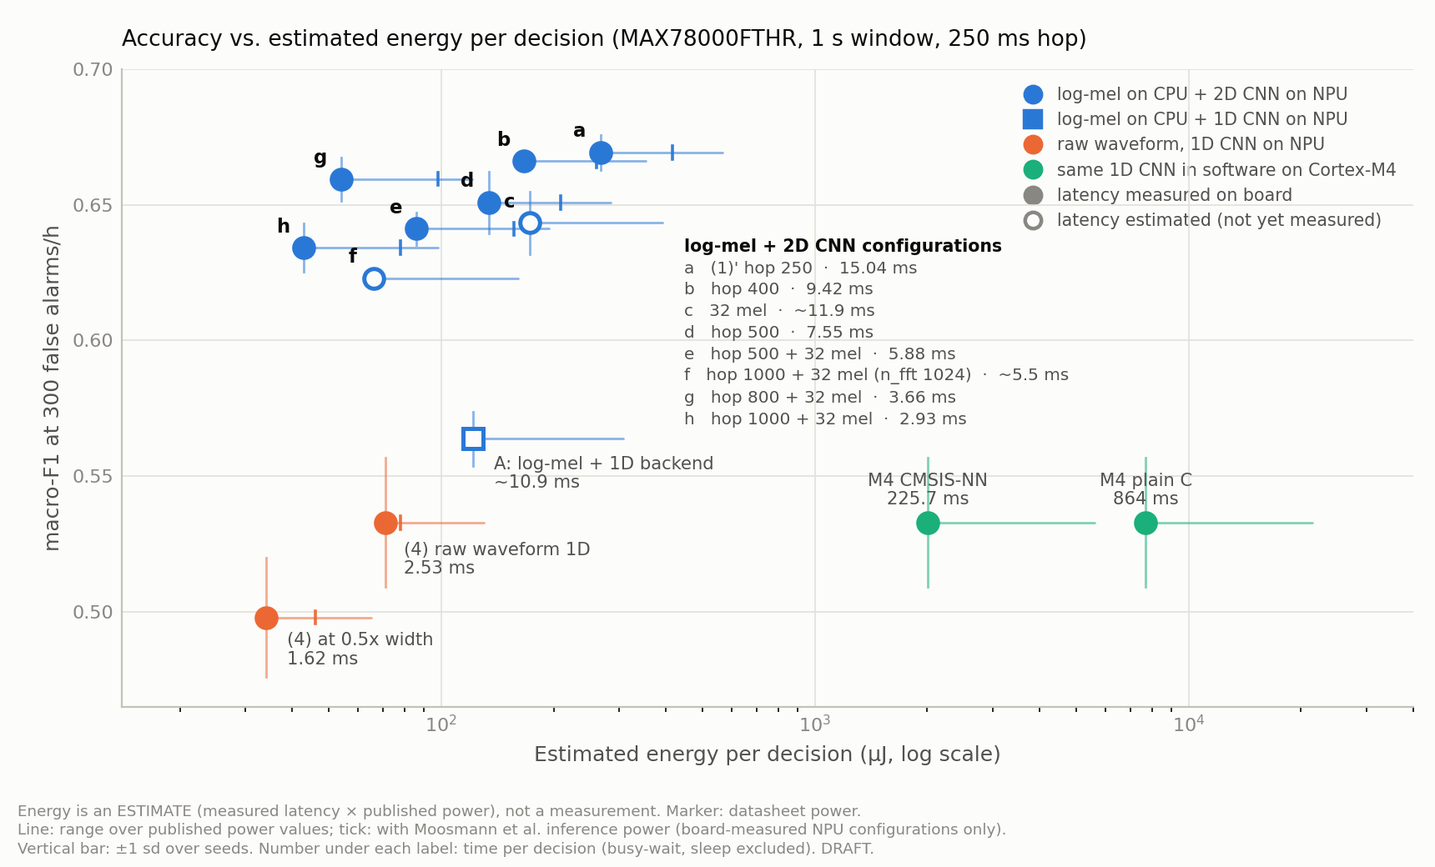
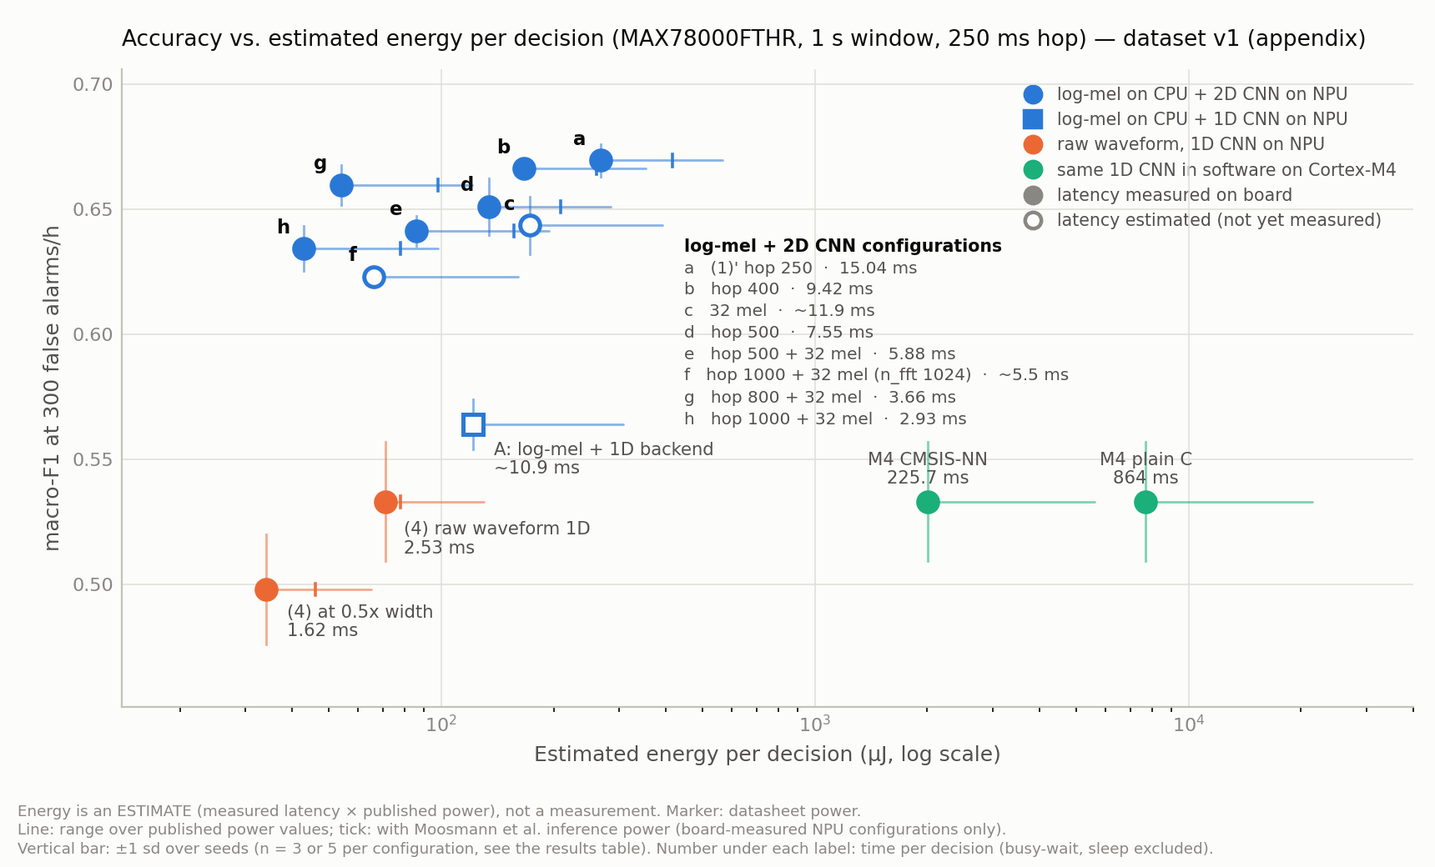
논문 본 표·본 그림을 v2.1 5개 구성으로 교체, v1 은 부록
- STATUS: 논문 표 v2.1 (시드 수·같은 시드 차이 열 명시), v1 표는 부록으로
- curve-points-v21.csv + curve-v21.png (본 그림), curve-draft.png 는 v1 부록 (--v1)
- 간격 400 대 ①′: v1 동등(±0.02), v2.1 −0.006 [−0.021, +0.008] 동등 판정 미통과
- 가·다 대 ①′ 는 정확도와 에너지의 교환으로, ④ 대비는 기존 표현 유지
- dataset-v2.1-design.md 8.7 표 재생성 (시드 기준 머리), 9절 한계 추가
- energy-estimate 4.6·4.7·4.7.1 을 v2.1 정확도로, external-eval 에 v1 부록 안내

diff --git a/tools/plot_curve.py b/tools/plot_curve.py
@@ -12,9 +12,13 @@
 색은 3색으로 제한했다 (산점도는 모든 쌍이 인접하므로 3색까지만 색각 이상
 검증을 통과한다). 색 = 추론이 도는 곳·입력 표현, 모양 = 뒷단 구조.
 
-사용 (WSL2):  ~/ai8x-training/venv/bin/python tools/plot_curve.py
+사용 (WSL2):
+  본 그림 (v2.1):  ~/ai8x-training/venv/bin/python tools/plot_curve.py
+  v1 부록 그림:    ~/ai8x-training/venv/bin/python tools/plot_curve.py --v1
+한 그림에 두 판(v1 / v2.1)의 수치를 섞지 않는다 — 점 CSV 가 판마다 따로다.
 """
 
+import argparse
 import csv
 import os
 
@@ -23,8 +27,11 @@ matplotlib.use("Agg")
 import matplotlib.pyplot as plt                              # noqa: E402
 
 REPO = os.path.dirname(os.path.dirname(os.path.abspath(__file__)))
-SRC = os.path.join(REPO, "docs", "results", "curve-points.csv")
-OUT = os.path.join(REPO, "docs", "figures", "curve-draft.png")
+# 판별 점 CSV / 출력 / 그림 제목 꼬리표
+EDITIONS = {
+    "v21": ("curve-points-v21.csv", "curve-v21.png", "dataset v2.1 (main)"),
+    "v1": ("curve-points.csv", "curve-draft.png", "dataset v1 (appendix)"),
+}
 
 SURFACE, INK, INK2, MUTED, GRID, AXIS = ("#fcfcfb", "#0b0b0b", "#52514e", "#898781",
                                          "#e1e0d9", "#c3c2b7")
@@ -47,7 +54,14 @@ HALIGN = {"h400": "right", "h500": "center", "h500m32": "center", "u800": "right
 
 
 def main():
-    rows = list(csv.DictReader(open(SRC, encoding="utf-8")))
+    ap = argparse.ArgumentParser()
+    ap.add_argument("--v1", action="store_true", help="v1 부록 그림 (기본은 v2.1 본 그림)")
+    args = ap.parse_args()
+    src_name, out_name, edition = EDITIONS["v1" if args.v1 else "v21"]
+    src = os.path.join(REPO, "docs", "results", src_name)
+    out = os.path.join(REPO, "docs", "figures", out_name)
+    rows = list(csv.DictReader(open(src, encoding="utf-8")))
+    keyed = [k for k in KEYED if k in {r["id"] for r in rows}]   # 이 판에 있는 것만 a, b, …
     fig, ax = plt.subplots(figsize=(8.6, 5.2), dpi=200)
     fig.patch.set_facecolor(SURFACE)
     ax.set_facecolor(SURFACE)
@@ -73,9 +87,9 @@ def main():
                 mfc=color if measured else SURFACE, ls="none")
         t = float(r["time_ms"])
         tms = f"{'' if measured else '~'}{t:g} ms"
-        if r["id"] in KEYED:
+        if r["id"] in keyed:
             # 로그 멜 2D 계열은 점이 몰려 있다 — 점에는 글자만, 설명은 옆의 표로
-            letter = "abcdefgh"[KEYED.index(r["id"])]
+            letter = "abcdefgh"[keyed.index(r["id"])]
             ax.annotate(letter, (x, y), xytext=(-9, 9), textcoords="offset points",
                         fontsize=8.2, color=INK, ha="center", va="center",
                         fontweight="bold")
@@ -93,7 +107,9 @@ def main():
 
     ax.set_xscale("log")
     ax.set_xlim(14, 40000)
-    ax.set_ylim(0.465, 0.70)
+    lo = min(float(r["f1"]) - float(r["f1_sd"]) for r in rows)
+    hi = max(float(r["f1"]) + float(r["f1_sd"]) for r in rows)
+    ax.set_ylim(lo - 0.025, hi + 0.03)
     ax.set_xlabel("Estimated energy per decision (µJ, log scale)", color=INK2, fontsize=9)
     ax.set_ylabel("macro-F1 at 300 false alarms/h", color=INK2, fontsize=9)
     ax.grid(True, which="major", color=GRID, lw=0.6)
@@ -104,30 +120,32 @@ def main():
     for s in ("left", "bottom"):
         ax.spines[s].set_color(AXIS)
 
+    present = {r["group"] for r in rows}            # 이 판에 있는 계열만 범례에
     handles = [plt.Line2D([], [], marker=m, ls="none", ms=7, mec=c, mfc=c, mew=1.6, label=n)
-               for c, m, n in GROUPS.values()]
+               for g, (c, m, n) in GROUPS.items() if g in present]
     handles += [plt.Line2D([], [], marker="o", ls="none", ms=7, mec=MUTED, mfc=MUTED, mew=1.6,
-                           label="latency measured on board"),
-                plt.Line2D([], [], marker="o", ls="none", ms=7, mec=MUTED, mfc=SURFACE, mew=1.6,
-                           label="latency estimated (not yet measured)")]
+                           label="latency measured on board")]
+    if any(r["board"] != "1" for r in rows):
+        handles += [plt.Line2D([], [], marker="o", ls="none", ms=7, mec=MUTED, mfc=SURFACE, mew=1.6,
+                               label="latency estimated (not yet measured)")]
     leg = ax.legend(handles=handles, loc="upper right", fontsize=7.4, frameon=False,
                     labelcolor=INK2, handletextpad=0.4, borderaxespad=0.6)
     leg.set_zorder(1)
 
-    ax.set_title("Accuracy vs. estimated energy per decision (MAX78000FTHR, 1 s window, 250 ms hop)",
+    ax.set_title(f"Accuracy vs. estimated energy per decision (MAX78000FTHR, 1 s window, 250 ms hop) — {edition}",
                  fontsize=9.5, color=INK, loc="left", pad=10)
     fig.text(0.012, 0.012,
              "Energy is an ESTIMATE (measured latency × published power), not a measurement. "
              "Marker: datasheet power.\n"
              "Line: range over published power values; tick: with Moosmann et al. "
              "inference power (board-measured NPU configurations only).\n"
-             "Vertical bar: ±1 sd over seeds. Number under each label: time per decision "
-             "(busy-wait, sleep excluded). DRAFT.",
+             "Vertical bar: ±1 sd over seeds (n = 3 or 5 per configuration, see the results table). "
+             "Number under each label: time per decision (busy-wait, sleep excluded).",
              fontsize=6.6, color=MUTED, ha="left", va="bottom", linespacing=1.3)
     fig.subplots_adjust(left=0.085, right=0.985, top=0.92, bottom=0.185)
-    os.makedirs(os.path.dirname(OUT), exist_ok=True)
-    fig.savefig(OUT, facecolor=SURFACE)
-    print(f"저장: {OUT}")
+    os.makedirs(os.path.dirname(out), exist_ok=True)
+    fig.savefig(out, facecolor=SURFACE)
+    print(f"저장: {out}")
 
 
 if __name__ == "__main__":

diff --git a/tools/v21_report.py b/tools/v21_report.py
@@ -27,14 +27,15 @@ def seeds(name, ver, key):
 
 
 print("### 8.1 채택 판정 (2절 규칙 그대로) 과 본 표 선택 (7절 일탈 규칙)\n")
-print("| 구성 | 조건 1 외부 F1 (v2.1 − v1) | 조건 2 시험셋 F1 (v2.1 − v1) | 조건 3 외부 오경보 맞춤 (v2.1 − v1) | 조건 4 배경+배경 발화 v2.1 | 넷 다 | 조건 2·4 |")
+print("차이(v2.1 − v1)는 **같은 시드끼리** (④ 시드 1~5, 나머지 시드 1~3) Welch 95% CI. 조건 4 도 같은 시드 평균." + "\n")
+print("| 구성 (비교 시드) | 조건 1 외부 F1 (v2.1 − v1) | 조건 2 시험셋 F1 (v2.1 − v1) | 조건 3 외부 오경보 맞춤 (v2.1 − v1) | 조건 4 배경+배경 발화 v2.1 | 넷 다 | 조건 2·4 |")
 print("|---|---|---|---|---|---|---|")
 n24 = 0
 for n, p in P.items():
     c = p["cond"]
     ok24 = c["2_test"] and c["4_bgbg"]
     n24 += ok24
-    print(f"| {n} | {ci(p['delta_v1']['ext_f1'])} {'○' if c['1_ext'] else '×'} | "
+    print(f"| {n} (1~{p['n_old']}) | {ci(p['delta_v1']['ext_f1'])} {'○' if c['1_ext'] else '×'} | "
           f"{ci(p['delta_v1']['test_f1'])} {'○' if c['2_test'] else '×'} | "
           f"{ci(p['delta_v1']['ext_matched'])} {'○' if c['3_matched'] else '×'} | "
           f"{100*np.mean(p['seeds']['v21']['bgbg_fire'][:p['n_old']]):.2f}% {'○' if c['4_bgbg'] else '×'} | "
@@ -42,12 +43,17 @@ for n, p in P.items():
 print(f"\n네 조건 충족 {R['n_pass']}/{R['n_total']} → 채택 판정 **{'채택' if R['adopt'] else '기각'}**. "
       f"조건 2·4 충족 {n24}/{R['n_total']} → 본 표 **{'v2.1' if n24 >= 3 else 'v1'}** (7절).")
 
-print("\n### 8.2 세 판 나란히 — 시드 평균 (v2.1 은 전 시드)\n")
-print("| 구성 | 시험셋 F1 v1 / v2 / v2.1 | 외부 F1 (시험셋 문턱값) | 외부 F1 (외부 오경보 맞춤) | 외부 오경보/h | 배경+배경 발화 % |")
-print("|---|---|---|---|---|---|")
+print("\n### 8.2 세 판 나란히 — 시드 평균\n")
+print("v1·v2 는 ④ 시드 1~5, 나머지 시드 1~3. v2.1 은 **전 시드**(④·간격 400·①′ 5, 가·다 3) 평균이고, "
+      "8.1 의 차이는 v2.1 중 **v1 과 같은 시드** 만으로 계산했다 — 그래서 전 시드 평균의 차와 8.1 의 차이가 다를 수 있다 "
+      "(예: ①′ 전 시드 0.7148, 시드 1~3 0.7079, 차이 +0.0384 = 0.7079 − 0.6694). 외부 열도 같은 규칙." + "\n")
+print("| 구성 (v1·v2 시드 수 / v2.1 시드 수) | 시험셋 F1 v1 / v2 / v2.1 (전 시드) | v2.1 시험셋 F1 ±sd (전 시드) | v2.1 시험셋 F1 v1 과 같은 시드 | 외부 F1 (시험셋 문턱값) v1 / v2 / v2.1 | 외부 F1 (외부 오경보 맞춤) v1 / v2 / v2.1 | 외부 오경보/h v1 / v2 / v2.1 | 배경+배경 발화 % v1 / v2 / v2.1 |")
+print("|---|---|---|---|---|---|---|---|")
 for n, p in P.items():
     m = p["mean"]
-    print(f"| {n} | " + " / ".join(f"{m[v]['test_f1']:.4f}" for v in VERS) + " | "
+    a = np.asarray(p["seeds"]["v21"]["test_f1"]); a3 = a[:p["n_old"]]
+    print(f"| {n} ({p['n_old']} / {len(a)}) | " + " / ".join(f"{m[v]['test_f1']:.4f}" for v in VERS) + " | "
+          + f"{a.mean():.4f} ± {a.std(ddof=1):.4f} (n={len(a)}) | {a3.mean():.4f} (n={len(a3)}) | "
           + " / ".join(f"{m[v]['ext_f1']:.4f}" for v in VERS) + " | "
           + " / ".join(f"{m[v]['ext_matched']:.4f}" for v in VERS) + " | "
           + " / ".join(f"{m[v]['ext_fa']:.0f}" for v in VERS) + " | "
@@ -68,7 +74,7 @@ for i, n in enumerate(names):
           + " | ".join(str(rk[(v, 'ext_f1')][i]) for v in VERS) + " |")
 
 print("\n### 8.4 재판정 항목 — 세 판 (시험셋 F1 @300/h, Welch 95% CI)\n")
-print("v1·v2 는 시드 1~3(④ 는 1~5), v2.1 은 전 시드(④·간격 400·①′ 5, 가·다 3).\n")
+print("각 판 안의 두 구성을 비교한다 (판 사이 비교가 아니다). v1·v2 는 시드 1~3(④ 는 1~5), v2.1 은 전 시드(④·간격 400·①′ 5, 가·다 3). 동등 기준 ±0.02 는 사전 등록 그대로다." + "\n")
 print("| 비교 | v1 | v2 | v2.1 | v2.1 판정 |")
 print("|---|---|---|---|---|")
 for a, b, kind in (("간격 400", "①′", "eq"), ("가 u1000", "①′", ""), ("다 u800", "①′", ""),
@@ -80,7 +86,7 @@ for a, b, kind in (("간격 400", "①′", "eq"), ("가 u1000", "①′", ""), 
     d = welch(seeds(b, "v21", "test_f1"), seeds(a, "v21", "test_f1"))
     if kind == "eq":
         verdict = "**동등** (±0.02 안)" if d[1] >= -0.02 and d[2] <= 0.02 else (
-            "못 가른다" if d[1] < 0 < d[2] else ("유의하게 높다" if d[1] > 0 else "유의하게 낮다"))
+            "동등 판정 미통과 (CI 가 0 을 포함하나 ±0.02 를 벗어난다)" if d[1] < 0 < d[2] else ("유의하게 높다" if d[1] > 0 else "유의하게 낮다"))
     else:
         verdict = "못 가른다" if d[1] < 0 < d[2] else ("유의하게 높다" if d[1] > 0 else "유의하게 낮다")
     print(f"| {a} − {b} | " + " | ".join(cells) + f" | {verdict} |")
@@ -89,6 +95,7 @@ for key, title in (("test_recall", "시험셋 recall % v1 / v2 / v2.1"),
                    ("ext_recall", "외부 recall % (시험셋 문턱값) v1 / v2 / v2.1"),
                    ("mix_mix-gen-10", "혼합 시험셋 +10 dB recall % v1 / v2 / v2.1")):
     print(f"\n### {title}\n")
+    print("시드 평균. v1·v2 는 ④ 1~5·나머지 1~3, v2.1 은 전 시드 (④·간격 400·①′ 5, 가·다 3)." + "\n")
     print("| 구성 | " + " | ".join(EV) + " |\n|---|" + "---|" * 4)
     for n, p in P.items():
         c = p["class"]

diff --git a/docs/STATUS.md b/docs/STATUS.md
@@ -14,7 +14,74 @@
 차이**다. ① ≫ ④ (+0.138) 자체는 유지되지만 **원인은 미확정**이 됐다.
 1.2절·1.4절 일부·U-7 은 인용하지 말 것. `docs/results/errata-mel-scheme-eval.md`.
 
-## ★ 논문 표 v1 (2026-10-02 고정) — 이후 변경은 아래 "이력" 에만 적는다
+## ★ 논문 표 v2.1 (2026-10-07 고정) — 본 표. 이후 변경은 아래 "이력" 에만 적는다
+
+데이터셋 **v2.1** (v1 + 배경 혼합 증강, 배경 창도 혼합; `docs/results/dataset-v2.1-design.md`).
+본 표 선택은 그 문서 7절의 사후 규칙(조건 2·4 를 5개 중 3개 이상 → 5/5 충족)에
+따른 것이고, **채택 판정 자체는 기각(0/5) — 외부 세트 향상은 확인하지 못했다.**
+구성은 v2.1 로 재학습한 5개만. v1 에만 있는 구성(간격 500, 간격 500+멜 32, 멜 32,
+후보 나, ④ 0.5×, 구성 A)은 아래 **부록 표 v1** 에만 있다 — 한 표에 두 판을 섞지
+않는다.
+
+조건: MAX78000FTHR, POR 직후, 1000회 **최악값**, 코어 100 MHz (IPO), CNN 50 MHz
+(PCLK÷1), **바쁜 대기**, 슬립·유휴·가중치 적재 미포함. 지연 카운터는 SysTick
+(M4 열은 TMR0, 1 µs). 정확도는 PC 평가 (고정 오경보 300회/h, macro-F1, **시드 평균
+± sd, n 은 칸마다**). **에너지는 전부 추정(실측 지연 × 공개 전력)이고 측정값이 아니다.**
+⚠ 지연은 **v1 시드 1 체크포인트** 실측(2026-10-02~05)이다. 구조가 같아 v2.1 가중치
+에서도 같아야 하며, v2.1 시드 1 로 재측정해 1% 넘게 다르면 이력에 원인을 적는다
+(`synthesis-check.md` 15절).
+
+| | ④ 원본 파형 | 후보 가 (간격 1000, 멜 32) | 후보 다 (간격 800, 멜 32) | 간격 400 | ①′ 로그 멜 (간격 250) | M4 CMSIS-NN |
+|---|---:|---:|---:|---:|---:|---:|
+| 전처리 위치 | 없음 | CPU | CPU | CPU | CPU | 없음 |
+| 추론 | NPU (1D) | NPU (2D, 풀링 4단) | NPU (2D, 풀링 4단) | NPU (2D) | NPU (2D) | M4 (④ 가중치) |
+| CPU 전처리 | — | 2.264 ms | 2.833 ms | 6.188 ms | 9.87 ms | — |
+| 입력 적재 | 1.087 ms | 0.133 ms | 0.167 ms | 0.669 ms | 1.078 ms | 0.27 ms |
+| 추론 | 1.439 ms | 0.531 ms | 0.653 ms | 2.552 ms | 4.085 ms | 225.4 ms |
+| 출력 | 0.008 ms | 0.005 ms | 0.005 ms | 0.007 ms | 0.008 ms | — |
+| **판단 1회** | **2.53 ms** | **2.93 ms** | **3.66 ms** | **9.42 ms** | **15.04 ms** | **225.7 ms** |
+| hop 250 ms 대비 | 1.0% | 1.2% | 1.5% | 3.8% | 6.0% | 90.3% |
+| macro-F1 @300/h, **v2.1** (평균 ± sd) | 0.548 ± 0.013 (n=5) | 0.646 ± 0.005 (n=3) | 0.663 ± 0.004 (n=3) | 0.709 ± 0.010 (n=5) | 0.715 ± 0.010 (n=5) | ④ 와 같다 (비트 일치 — v2.1 가중치 재확인 대기) |
+| v2.1 − v1 (**같은 시드끼리**, Welch 95% CI) | +0.015 [−0.014, +0.045] (시드 1~5) | +0.012 [−0.006, +0.030] (시드 1~3) | +0.003 [−0.013, +0.020] (시드 1~3) | +0.047 [+0.031, +0.063] (시드 1~3) | +0.038 [+0.025, +0.052] (시드 1~3) | — |
+| 에너지 (가) 데이터시트 — 추정 | 약 71 µJ | 약 43 µJ | 약 54 µJ | 약 167 µJ | 약 267 µJ | 약 2,007 µJ |
+| 에너지 (나) 선행연구 — 추정 | 약 130 µJ | 약 98 µJ | 약 121 µJ | 약 353 µJ | 약 565 µJ | 약 5,598 µJ |
+| 에너지 (참고) Moosmann 추론 전력 — 추정 | 약 78 µJ | 약 78 µJ | 약 98 µJ | 약 261 µJ | 약 417 µJ | — |
+| ④ 대비 에너지 비 (가) ~ (나) | 1 | 0.61 ~ 0.75 | 0.76 ~ 0.93 | 2.35 ~ 2.71 | 3.75 ~ 4.33 | 28 ~ 43 |
+| 온디바이스 KAT (v1 체크포인트) | 비트 일치 | 전처리 KAT 1 LSB / NPU 비트 일치 | 〃 | 〃 | 〃 | NPU 로짓과 비트 일치 |
+| 온디바이스 KAT (v2.1 시드 1) | 대기 | 대기 | 대기 | 대기 | 대기 | 대기 |
+
+- 전력 상수: (가) MAX78000 데이터시트 19-100868 Rev 1 — CPU 8.89 / 적재·출력
+  11.26 / NPU 추론 40.79 mW. (나) Moss et al. 24.8 mW (CPU 구간), Ulkar & Okman
+  71.7 mW (NPU 추론). (참고) Moosmann et al. 35.6 mW (NPU 추론). 근거·가정 표:
+  `docs/results/energy-estimate.md`.
+- "v2.1 − v1" 은 v1 과 같은 시드끼리의 차이다. 전 시드 평균끼리의 차(①′ 0.715 −
+  0.669 = 0.045)와 다르다 — ①′·간격 400 은 v2.1 이 5시드, v1 이 3시드이기 때문.
+  v2.1 시드 1~3 평균은 ①′ 0.708, 간격 400 0.713.
+- 구성 사이 (v2.1 안에서만, Welch 95% CI):
+  · **간격 400 대 ①′**: v1 에서는 동등(±0.02 내), **v2.1 에서는 차이 −0.006
+    [−0.021, +0.008] 로 동등 판정 미통과.** 기준은 사후에 넓히지 않는다. 에너지는
+    전력 가정과 무관하게 ①′ 보다 작다 (세 구간 모두 짧다) — 이 우위는 그대로.
+  · **후보 가·다 대 ①′**: 정확도와 에너지의 교환 — 가 −0.069 [−0.082, −0.055],
+    다 −0.052 [−0.065, −0.039]; 추정 에너지는 전력 가정과 무관하게 작다
+    (데이터시트 기준 0.16배 / 0.20배). 뒷단이 다르다 (풀링 4단).
+  · **후보 가·다 대 ④**: 가 +0.098 [+0.082, +0.114], 추정 에너지는 같거나 작다
+    (공개 전력값 3개 중 2개에서 작고 1개에서 같음). 다 +0.115 [+0.099, +0.130],
+    추정 에너지는 전력 가정에 따라 ④ 의 0.76배에서 ④ 초과(1.25배)까지. "지배" 는
+    쓰지 않는다. 손익분기 전력비 가 1.44 / 다 2.43.
+  · 순위 ①′ > 간격 400 > 다 > 가 > ④ 는 v1 과 같다 (시험셋·외부 모두).
+- 한계 (논문 한계 절): `dataset-v2.1-design.md` 9절 — 외부 세트 향상 미확인, 외부
+  오경보가 4개 구성에서 v1 보다 높음, 배경 혼합 실효 비율 0.46 대 이벤트 0.49,
+  사전 등록 일탈 요약. 에너지 쪽 한계는 `energy-estimate.md` 6절.
+- 본 그림: `docs/figures/curve-v21.png` (5개 + M4 두 점). v1 그림 `curve-draft.png`
+  는 부록.
+- M4 CMSIS-NN 열의 지연은 ④ v1 가중치로 잰 값이다. v2.1 ④ 가중치로 NPU 출력과의
+  비트 일치를 재확인한다 (B-3) — 지연은 가중치 값과 무관하다.
+
+**표 v2.1 이력**
+- 2026-10-07: 최초 고정 (v2.1 채점 뒤). 보드 재확인(합성·비트 일치·전처리 KAT·
+  지연, 5개 구성 + CMSIS-NN) 대기.
+
+## 부록 — 논문 표 v1 (2026-10-02 고정; 2026-10-07 부터 본 표는 위 v2.1) — 이후 변경은 아래 "이력" 에만 적는다
 
 조건: MAX78000FTHR, POR 직후, 1000회 **최악값**, 코어 100 MHz (IPO), CNN 50 MHz
 (PCLK÷1), **바쁜 대기**, 슬립·유휴·가중치 적재 미포함. 지연 카운터는 SysTick

diff --git a/docs/results/curve-design.md b/docs/results/curve-design.md
@@ -3,6 +3,12 @@
 > 이 문서의 시간·에너지는 **학습·보드 실측 전의 추정**이다 (NPU 사이클만 합성
 > 실측). 정확도는 전부 `TBD`. 결과가 나오면 아래 "결과" 절에 적는다.
 
+> ★ **2026-10-07 부터 본 표·본 그림은 데이터셋 v2.1 의 5개 구성**(④, 후보 가,
+> 후보 다, 간격 400, ①′)이다 — 맨 아래 "v2.1 결과" 절. 아래 "결과" 절들의 수치는
+> 전부 **v1** 이고, v1 에만 있는 구성(간격 500, 간격 500+멜 32, 멜 32, 후보 나,
+> ④ 0.5×, 구성 A)은 **v1 부록 표·그림**(`curve-draft.png`)에만 둔다. 한 표·한
+> 그림에 두 판의 수치를 섞지 않는다.
+
 ## 목적
 
 ④(싸고 낮음)와 ①′(비싸고 높음) 두 점 사이를 채운다. ①′ 의 CPU 전처리 비용을
@@ -264,3 +270,55 @@ recall: siren 37.4 / glass 41.9 / scream 46.8 / dog_bark 64.0 (%).
 `docs/results/curve-points.csv`). 채운 마커 = 지연을 보드에서 잰 구성, 빈 마커 =
 지연이 추정인 구성. 마커 = 데이터시트 전력 기준, 가는 선 = 선행연구 전력 기준까지.
 구성 A 의 NPU 사이클은 합성 실측 38,514 (가짜 가중치).
+
+## v2.1 결과 — 본 표·본 그림 (2026-10-07)
+
+채점·판정·세 판 비교는 `dataset-v2.1-design.md` 8절. 여기에는 본 그림에 들어가는
+5개 구성만 적는다. 지연·에너지는 v1 시드 1 체크포인트로 잰 값이고 구조가 같아
+v2.1 에서도 같아야 한다 (재측정은 `synthesis-check.md` 15절, 1% 넘게 다르면 원인을
+적는다). 에너지는 **추정(실측 지연 × 공개 전력)** 이다.
+
+| 구성 | macro-F1 @300/h v2.1 (시드 평균 ± sd, n) | v2.1 − v1 (같은 시드끼리, Welch 95% CI) | 판단 1회 (실측) | 에너지 추정 (가) / (나) / (참고 Moosmann) |
+|---|---:|---|---:|---:|
+| ④ 원본 파형 | 0.5483 ± 0.0127 (n=5) | +0.015 [−0.014, +0.045] (시드 1~5) | 2.53 ms | 약 71 / 130 / 78 µJ |
+| 후보 가 `u1000` | 0.6462 ± 0.0053 (n=3) | +0.012 [−0.006, +0.030] (시드 1~3) | 2.93 ms | 약 43 / 98 / 78 µJ |
+| 후보 다 `u800` | 0.6630 ± 0.0036 (n=3) | +0.003 [−0.013, +0.020] (시드 1~3) | 3.66 ms | 약 54 / 121 / 98 µJ |
+| 간격 400 `h400` | 0.7085 ± 0.0095 (n=5) | +0.047 [+0.031, +0.063] (시드 1~3; v2.1 시드 1~3 평균 0.7130) | 9.42 ms | 약 167 / 353 / 261 µJ |
+| ①′ `melinc` | 0.7148 ± 0.0104 (n=5) | +0.038 [+0.025, +0.052] (시드 1~3; v2.1 시드 1~3 평균 0.7079) | 15.04 ms | 약 267 / 565 / 417 µJ |
+
+⚠ "v2.1 − v1" 은 v1 과 같은 시드(1~3; ④는 1~5)끼리의 차이라, 전 시드 평균끼리의
+차(예: ①′ 0.7148 − 0.6694 = 0.045)와 다르다. 두 값을 섞어 읽지 않는다.
+
+### 구성 사이의 비교 (v2.1, 각 판 안에서만 비교)
+
+| 비교 | v2.1 (Welch 95% CI) | 쓰는 문장 |
+|---|---|---|
+| 간격 400 − ①′ | −0.0063 [−0.0209, +0.0083] (5 대 5시드) | **v1 에서는 동등(±0.02 내), v2.1 에서는 차이 −0.006 [−0.021, +0.008] 로 동등 판정 미통과.** 기준은 사후에 넓히지 않는다. 에너지는 전력 가정과 무관하게 ①′ 보다 작다 (세 구간 모두 짧다, `energy-estimate.md` 4.7.1) — 이 우위는 그대로 쓴다 |
+| 후보 가 − ①′ | −0.0686 [−0.0823, −0.0549] (3 대 5시드) | **정확도와 에너지의 교환**: ①′ 보다 정확도 0.069 낮고, 추정 에너지는 전력 가정과 무관하게 작다 (데이터시트 기준 약 43 대 267 µJ, 0.16배; 세 구간 모두 짧다). 뒷단이 다르다 (풀링 4단) |
+| 후보 다 − ①′ | −0.0518 [−0.0647, −0.0390] (3 대 5시드) | **정확도와 에너지의 교환**: ①′ 보다 정확도 0.052 낮고, 추정 에너지는 전력 가정과 무관하게 작다 (약 54 대 267 µJ, 0.20배). 뒷단이 다르다 |
+| 후보 가 − ④ | +0.0979 [+0.0819, +0.1139] (3 대 5시드) | ④ 보다 정확도가 +0.098 높고, 추정 에너지는 **같거나 작다** — 공개 전력값 3개 중 2개에서 작고 (데이터시트 약 43 대 71 µJ, Ulkar & Okman 약 98 대 130 µJ) 1개에서 같다 (Moosmann 약 78 대 78 µJ) |
+| 후보 다 − ④ | +0.1147 [+0.0991, +0.1303] (3 대 5시드) | ④ 보다 정확도가 높고 (+0.115), 추정 에너지는 **전력 가정에 따라 ④ 의 0.76배에서 ④ 초과까지** (데이터시트 0.76배, Ulkar & Okman 0.93배, Moosmann 1.25배) |
+
+- ④ 와의 비교에는 v1 과 같은 단서를 붙인다: "지배" 를 쓰지 않는다, 에너지는
+  추정(실측 지연 × 공개 전력), 가·다는 풀링 4단 뒷단이라 비교 단위는 파이프라인
+  전체, 손익분기 전력비 가 1.44 / 다 2.43 (`energy-estimate.md` 4.6.1).
+- ①′ 와의 비교는 v1 에서 "못 가른다 / 검정 안 함" 이었던 것이 v2.1 에서 둘 다
+  유의하게 낮아졌다 — ①′ 가 혼합 증강으로 가장 크게 올랐기 때문이다. 그래서
+  "정확도와 에너지의 교환" 으로 쓴다.
+- 순위(①′ > 간격 400 > 다 > 가 > ④)는 v1 과 v2.1 이 같다 (시험셋·외부 모두).
+
+클래스별 recall @300/h (v2.1, 시드 평균 — n 은 위 표와 같다):
+
+| | siren | glass | scream | dog_bark |
+|---|---:|---:|---:|---:|
+| ④ | 25.4% | 33.1% | 32.2% | 42.3% |
+| 후보 가 u1000 | 34.5% | 46.2% | 49.2% | 50.4% |
+| 후보 다 u800 | 31.3% | 46.8% | 53.8% | 57.9% |
+| 간격 400 | 38.5% | 52.8% | 56.4% | 67.2% |
+| ①′ | 36.2% | 53.6% | 58.8% | 70.3% |
+
+### 본 그림 (v2.1)
+
+`docs/figures/curve-v21.png` (`tools/plot_curve.py --points docs/results/curve-points-v21.csv
+--out docs/figures/curve-v21.png`). 점: 위 5개 + M4 CMSIS-NN·단순 C (④ 가중치, 정확도는
+④ 와 비트 일치). v1 그림 `curve-draft.png` 는 부록이다 (13점, v1 수치만).

diff --git a/docs/results/external-eval.md b/docs/results/external-eval.md
@@ -1,5 +1,10 @@
 # 외부 검증 세트 평가 (AudioSet strong eval, 재학습 없음)
 
+> ⚠ 이 문서는 **v1 체크포인트**(혼합 증강 없음)의 외부 세트 결과다 — 2026-10-07
+> 부터 본 표는 데이터셋 **v2.1** 이고 v1 은 부록이다. v2.1(과 v2)의 외부 세트
+> 수치·v1 과의 차이는 `dataset-v2.1-design.md` 8절. 순위 보존 결론(③)은 v2.1
+> 에서도 같다 (8.3절).
+
 작성 2026-10-05. 세트 설명·한계는 `external-set.md` (보조 세션). 이 문서는 **PC
 평가**만 다룬다 — 온디바이스 값이 아니다. 표는 `tools/ext_report.py` 가
 `data/external_eval/external_eval.json` 에서 그대로 뽑은 것이다.
